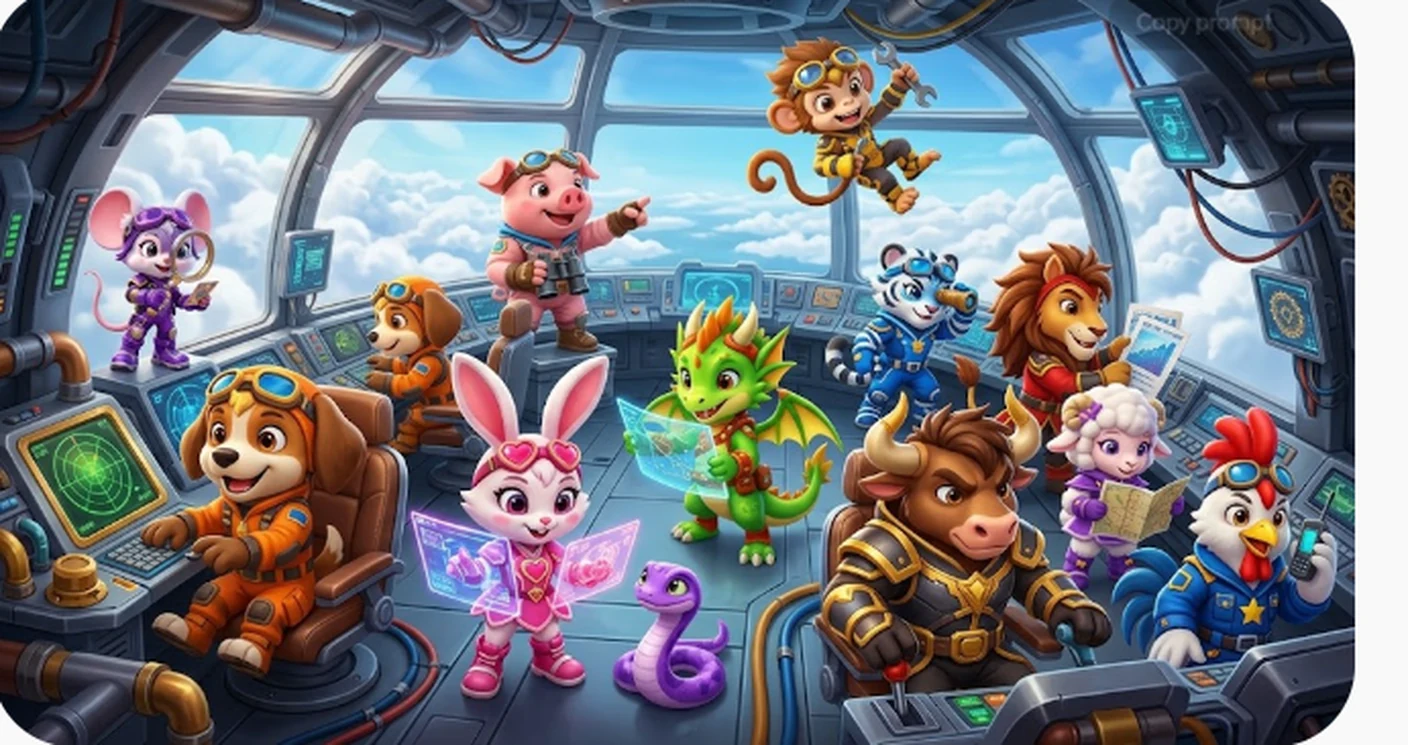
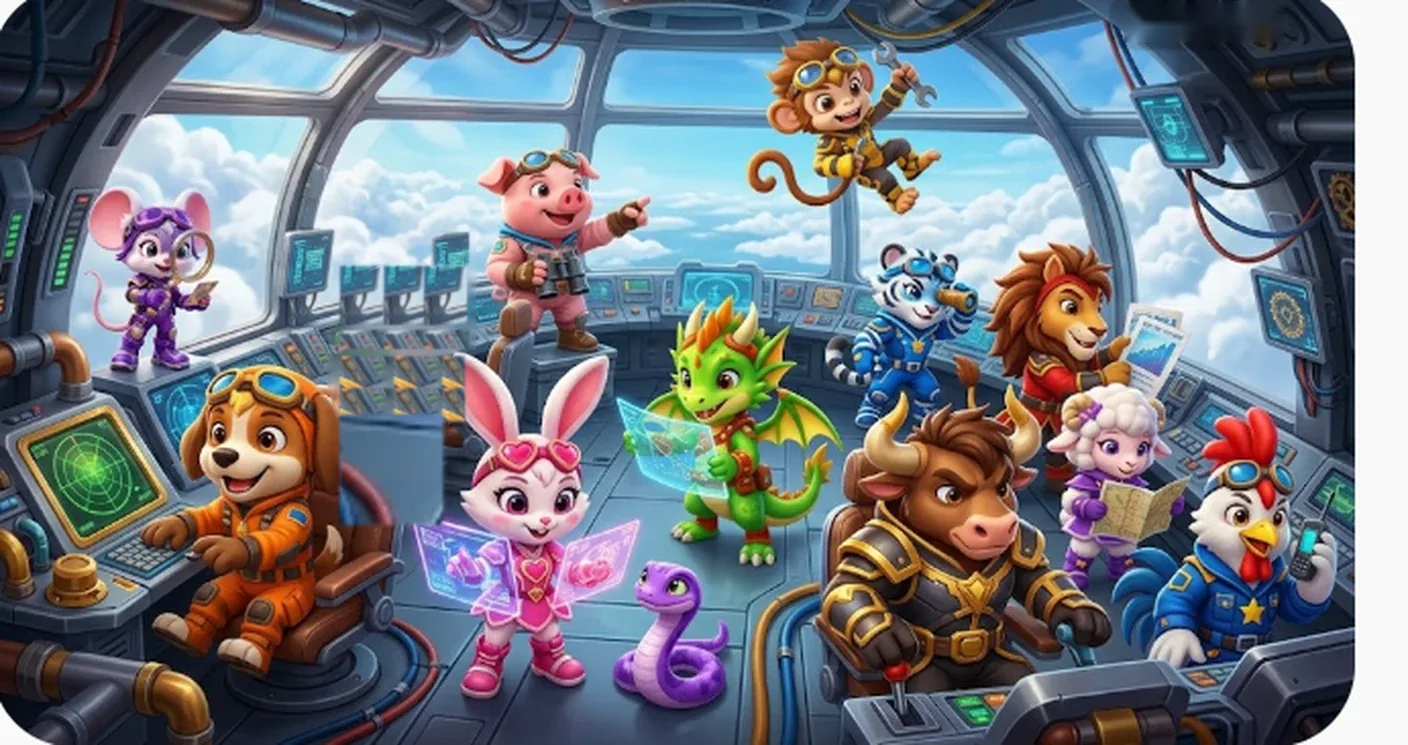
조종실 그림 손질: 중복 강아지 제거 + 워터마크 제거
- 그림 속 강아지 2마리 중 뒤쪽(콘솔 앞 작은 강아지)을 지우고
  창문·모니터 줄·콘솔 벽·바닥을 복원 (12영웅 정확히 12마리)
- 우상단 'Copy prompt' 워터마크 제거, 콘솔 깜빡임 오버레이 위치 이동

Claude-Session: https://claude.ai/code/session_01NHgn8GWZ2oMqCz3bTFubG3

Changed region(s): [[0.2188, 0.3087, 0.3438, 0.7101], [0.7812, 0.0, 0.9062, 0.0617]]

diff --git a/sw.js b/sw.js
@@ -1,7 +1,7 @@
 /* 열두동물 한글 수비대 — offline worker.
    Every build writes a new VERSION here; a changed sw.js is how an installed app notices there is an update.
    The new version waits until the player taps "업데이트" (or until the app is fully closed), so a game in progress is never swapped out. */
-const VERSION = "c19553f5011c";
+const VERSION = "e7e0b6ec31dc";
 const CACHE = "hg-" + VERSION;
 const CORE = ["./", "index.html", "css/style.css", "js/app.js", "audio/voices.js", "books/b1/book.js", "books/b2/book.js", "books/b3/book.js", "books/b4/book.js", "books/b5/book.js", "books/b6/book.js", "books/b7/book.js", "books/b8/book.js", "books/b9/book.js", "books/b10/book.js", "books/b11/book.js", "books/b12/book.js", "manifest.webmanifest", "assets/fonts/jua-korean-400-normal.woff2", "assets/fonts/gowun-dodum-korean-400-normal.woff2"];   /* must all be saved, or this version is not installed */
 const REST = ["assets/audio/bgm/book.mp3", "assets/audio/bgm/case.mp3", "assets/audio/bgm/course.mp3", "assets/audio/bgm/duel.mp3", "assets/audio/bgm/explore.mp3", "assets/audio/bgm/play.mp3", "assets/audio/bgm/reveal.mp3", "assets/audio/bgm/solved.mp3", "assets/audio/bgm/tension.mp3", "assets/audio/bgm/title.mp3", "assets/fonts/fredoka-latin-400-normal.woff2", "assets/fonts/fredoka-latin-500-normal.woff2", "assets/fonts/fredoka-latin-600-normal.woff2", "assets/fonts/fredoka-latin-700-normal.woff2", "assets/img/card/dog_atk.webp", "assets/img/card/dog_def.webp", "assets/img/card/dragon_atk.webp", "assets/img/card/dragon_def.webp", "assets/img/card/horse_atk.webp", "assets/img/card/horse_def.webp", "assets/img/card/mentor_atk.webp", "assets/img/card/mentor_def.webp", "assets/img/card/monkey_atk.webp", "assets/img/card/monkey_def.webp", "assets/img/card/ox_atk.webp", "assets/img/card/ox_def.webp", "assets/img/card/pig_atk.webp", "assets/img/card/pig_def.webp", "assets/img/card/rabbit_atk.webp", "assets/img/card/rabbit_def.webp", "assets/img/card/rat_atk.webp", "assets/img/card/rat_def.webp", "assets/img/card/sheep_atk.webp", "assets/img/card/sheep_def.webp", "assets/img/card/snake_atk.webp", "assets/img/card/snake_def.webp", "assets/img/card/tiger_atk.webp", "assets/img/card/tiger_def.webp", "assets/img/card/v_black_atk.webp", "assets/img/card/v_black_def.webp", "assets/img/card/v_fat_atk.webp", "assets/img/card/v_fat_def.webp", "assets/img/card/v_gray_atk.webp", "assets/img/card/v_gray_def.webp", "assets/img/card/v_purple_atk.webp", "assets/img/card/v_purple_def.webp", "assets/img/card/v_tiger_atk.webp", "assets/img/card/v_tiger_def.webp", "assets/img/card/v_white_atk.webp", "assets/img/card/v_white_def.webp", "assets/img/case/case01_rat.webp", "assets/img/case/case02_ox.webp", "assets/img/case/case04_rabbit.webp", "assets/img/case/case05_dragon.webp", "assets/img/case/case06_snake.webp", "assets/img/case/case07_horse.webp", "assets/img/case/case08_sheep.webp", "assets/img/case/case09_monkey.webp", "assets/img/case/case10_rooster.webp", "assets/img/case/case11_dog.webp", "assets/img/course/book_gate.webp", "assets/img/course/book_orb.webp", "assets/img/emoji/e0.webp", "assets/img/emoji/e1.webp", "assets/img/emoji/e2.webp", "assets/img/emoji/e3.webp", "assets/img/emoji/e4.webp", "assets/img/emoji/e5.webp", "assets/img/emoji/e6.webp", "assets/img/emoji/e7.webp", "assets/img/emoji/e8.webp", "assets/img/hero/dog.webp", "assets/img/hero/dragon.webp", "assets/img/hero/horse.webp", "assets/img/hero/mentor.webp", "assets/img/hero/monkey.webp", "assets/img/hero/ox.webp", "assets/img/hero/pig.webp", "assets/img/hero/rabbit.webp", "assets/img/hero/rabbit_run_sheet.webp", "assets/img/hero/rat.webp", "assets/img/hero/rooster.webp", "assets/img/hero/sheep.webp", "assets/img/hero/snake.webp", "assets/img/hero/tiger.webp", "assets/img/hq/launch_grid.webp", "assets/img/hq/room_base.webp", "assets/img/hq/room_pic.webp", "assets/img/hq/work_rat.webp", "assets/img/npc/beaver.webp", "assets/img/npc/beaver_face.webp", "assets/img/npc/beaver_happy.webp", "assets/img/npc/beaver_worried.webp", "assets/img/npc/gull.webp", "assets/img/npc/gull_face.webp", "assets/img/npc/gull_happy.webp", "assets/img/npc/gull_worried.webp", "assets/img/npc/mole.webp", "assets/img/npc/mole_face.webp", "assets/img/npc/mole_happy.webp", "assets/img/npc/mole_worried.webp", "assets/img/npc/raccoon.webp", "assets/img/npc/raccoon_face.webp", "assets/img/npc/spider.webp", "assets/img/npc/spider_face.webp", "assets/img/npc/spider_happy.webp", "assets/img/npc/spider_worried.webp", "assets/img/npc/squirrel.webp", "assets/img/npc/squirrel_face.webp", "assets/img/npc/squirrel_happy.webp", "assets/img/npc/squirrel_worried.webp", "assets/img/npc/v_black.webp", "assets/img/npc/v_black_face.webp", "assets/img/portrait/dog.webp", "assets/img/portrait/dragon.webp", "assets/img/portrait/horse.webp", "assets/img/portrait/mentor.webp", "assets/img/portrait/monkey.webp", "assets/img/portrait/ox.webp", "assets/img/portrait/pig.webp", "assets/img/portrait/rabbit.webp", "assets/img/portrait/rat.webp", "assets/img/portrait/rooster.webp", "assets/img/portrait/sheep.webp", "assets/img/portrait/snake.webp", "assets/img/portrait/tiger.webp", "assets/img/portrait/v_black.webp", "assets/img/portrait/v_fat.webp", "assets/img/portrait/v_gray.webp", "assets/img/portrait/v_purple.webp", "assets/img/portrait/v_tiger.webp", "assets/img/portrait/v_white.webp", "assets/img/scene/case03_race.webp", "assets/img/scene/course_forest.webp", "assets/img/scene/island.webp", "assets/img/scene/island_map.webp", "assets/img/scene/start_poster.webp", "assets/img/scene/storyboard_p1.webp", "assets/img/scene/storyboard_p2.webp", "assets/img/villain/black_head.webp", "assets/img/villain/fat.webp", "assets/img/villain/gray.webp", "assets/img/villain/purple.webp", "assets/img/villain/tiger.webp", "assets/img/villain/white.webp", "audio/app_001.mp3", "audio/app_002.mp3", "audio/app_003.mp3", "audio/app_004.mp3", "audio/b1_001.mp3", "audio/b1_002.mp3", "audio/b1_003.mp3", "audio/b1_004.mp3", "audio/b1_005.mp3", "audio/b1_005a.mp3", "audio/b1_005b.mp3", "audio/b1_005c.mp3", "audio/b1_006.mp3", "audio/b1_007.mp3", "audio/b1_008.mp3", "audio/b1_009.mp3", "audio/b1_010.mp3", "audio/b1_011.mp3", "audio/b1_012.mp3", "audio/b1_013.mp3", "audio/b1_014.mp3", "audio/b1_015.mp3", "audio/b1_016.mp3", "audio/b1_017.mp3", "audio/b1_018.mp3", "audio/b1_019.mp3", "audio/b1_020.mp3", "audio/b1_021.mp3", "audio/b1_022.mp3", "audio/b1_023.mp3", "audio/b1_024.mp3", "audio/b1_025.mp3", "audio/b1_026.mp3", "audio/b1_027.mp3", "audio/b1_028.mp3", "audio/b1_029.mp3", "audio/b1_030.mp3", "audio/b1_031.mp3", "audio/b1_032.mp3", "audio/b1_033.mp3", "audio/b1_034.mp3", "audio/b1_035.mp3", "audio/b1_036.mp3", "audio/b1_037.mp3", "audio/b1_038.mp3", "audio/b1_039.mp3", "audio/b1_040.mp3", "audio/b1_041.mp3", "audio/b1_042.mp3", "audio/b1_043.mp3", "audio/b1_044.mp3", "audio/b1_045.mp3", "audio/b1_046.mp3", "audio/b1_047.mp3", "audio/b1_048.mp3", "audio/b1_049.mp3", "audio/b1_050.mp3", "audio/b1_051.mp3", "audio/b1_052.mp3", "audio/b1_053.mp3", "audio/b1_054.mp3", "audio/b1_055.mp3", "audio/b1_056.mp3", "audio/b1_057.mp3", "audio/b1_058.mp3", "audio/b1_059.mp3", "audio/b1_060.mp3", "audio/b1_061.mp3", "audio/b1_062.mp3", "audio/b1_063.mp3", "audio/b1_064.mp3", "audio/b1_065.mp3", "audio/b1_066.mp3", "audio/b1_067.mp3", "audio/b1_068.mp3", "audio/b1_069.mp3", "audio/b1_070.mp3", "audio/b1_071.mp3", "audio/b1_072.mp3", "audio/b1_073.mp3", "audio/b1_074.mp3", "audio/b2_001.mp3", "audio/b2_002.mp3", "audio/b2_003.mp3", "audio/b2_005.mp3", "audio/b2_006.mp3", "audio/b2_007.mp3", "audio/b2_008.mp3", "audio/b2_009.mp3", "audio/b2_010.mp3", "audio/b2_011.mp3", "audio/b2_012.mp3", "audio/b2_013.mp3", "audio/b2_014.mp3", "audio/b2_015.mp3", "audio/b2_016.mp3", "audio/b2_017.mp3", "audio/b2_018.mp3", "audio/b2_019.mp3", "audio/b2_020.mp3", "audio/b2_021.mp3", "audio/b2_022.mp3", "audio/b2_023.mp3", "audio/b2_024.mp3", "audio/b2_025.mp3", "audio/b2_026.mp3", "audio/b2_027.mp3", "audio/b2_028.mp3", "audio/b2_029.mp3", "audio/b2_030.mp3", "audio/b2_031.mp3", "audio/b2_032.mp3", "audio/b2_033.mp3", "audio/b2_034.mp3", "audio/b2_035.mp3", "audio/b2_036.mp3", "audio/b2_037.mp3", "audio/b2_038.mp3", "audio/b2_039.mp3", "audio/b2_040.mp3", "audio/b2_041.mp3", "audio/b2_042.mp3", "audio/b2_043.mp3", "audio/b2_044.mp3", "audio/b2_045.mp3", "audio/b2_046.mp3", "audio/b2_047.mp3", "audio/b2_048.mp3", "audio/b2_049.mp3", "audio/b2_050.mp3", "audio/b2_051.mp3", "audio/b2_052.mp3", "audio/b2_053.mp3", "audio/fs_001.mp3", "audio/fs_002.mp3", "audio/fs_003.mp3", "audio/fs_004.mp3", "audio/fs_005.mp3", "audio/fs_006.mp3", "audio/fs_007.mp3", "audio/fs_008.mp3", "audio/fs_009.mp3", "audio/fs_010.mp3", "audio/fs_011.mp3", "audio/fs_012.mp3", "audio/fs_013.mp3", "audio/fs_014.mp3", "audio/fs_015.mp3", "audio/fs_016.mp3", "audio/fs_017.mp3", "audio/fs_018.mp3", "audio/fs_019.mp3", "audio/fs_020.mp3", "audio/fs_021.mp3", "audio/fs_022.mp3", "audio/fs_023.mp3", "audio/fs_024.mp3", "audio/fs_025.mp3", "audio/fs_026.mp3", "audio/fs_027.mp3", "audio/fs_028.mp3", "audio/fs_029.mp3", "audio/fs_030.mp3", "audio/fs_031.mp3", "audio/fs_032.mp3", "audio/fs_033.mp3", "audio/fs_034.mp3", "audio/fs_035.mp3", "audio/fs_036.mp3", "audio/fs_037.mp3", "audio/fs_038.mp3", "audio/hero_dog_1.mp3", "audio/hero_dog_2.mp3", "audio/hero_dog_3.mp3", "audio/hero_dragon_1.mp3", "audio/hero_dragon_2.mp3", "audio/hero_dragon_3.mp3", "audio/hero_horse_1.mp3", "audio/hero_horse_2.mp3", "audio/hero_horse_3.mp3", "audio/hero_monkey_1.mp3", "audio/hero_monkey_2.mp3", "audio/hero_monkey_3.mp3", "audio/hero_ox_1.mp3", "audio/hero_ox_2.mp3", "audio/hero_ox_3.mp3", "audio/hero_pig_1.mp3", "audio/hero_pig_2.mp3", "audio/hero_pig_3.mp3", "audio/hero_rabbit_1.mp3", "audio/hero_rabbit_2.mp3", "audio/hero_rabbit_3.mp3", "audio/hero_rat_1.mp3", "audio/hero_rat_2.mp3", "audio/hero_rat_3.mp3", "audio/hero_rooster_1.mp3", "audio/hero_rooster_2.mp3", "audio/hero_rooster_3.mp3", "audio/hero_sheep_1.mp3", "audio/hero_sheep_2.mp3", "audio/hero_sheep_3.mp3", "audio/hero_snake_1.mp3", "audio/hero_snake_2.mp3", "audio/hero_snake_3.mp3", "audio/hero_tiger_1.mp3", "audio/hero_tiger_2.mp3", "audio/hero_tiger_3.mp3", "audio/hq_001.mp3", "audio/hq_002.mp3", "audio/hq_003.mp3", "audio/hq_004.mp3", "audio/hq_005.mp3", "audio/hq_006.mp3", "audio/hq_007.mp3", "audio/k01_001.mp3", "audio/k01_002.mp3", "audio/k01_003.mp3", "audio/k01_004.mp3", "audio/k01_005.mp3", "audio/k01_006.mp3", "audio/k01_007.mp3", "audio/k01_008.mp3", "audio/k01_009.mp3", "audio/k01_010.mp3", "audio/k01_011.mp3", "audio/k01_012.mp3", "audio/k01_013.mp3", "audio/k01_014.mp3", "audio/k01_015.mp3", "audio/k01_016.mp3", "audio/k01_017.mp3", "audio/k01_018.mp3", "audio/k01_019.mp3", "audio/k01_020.mp3", "audio/k01_021.mp3", "audio/k01_022.mp3", "audio/k01_023.mp3", "audio/k01_024.mp3", "audio/k01_025.mp3", "audio/k01_026.mp3", "audio/k01_027.mp3", "audio/k01_028.mp3", "audio/k01_029.mp3", "audio/k01_030.mp3", "audio/k01_031.mp3", "audio/k01_032.mp3", "audio/k01_033.mp3", "audio/k01_034.mp3", "audio/k01_035.mp3", "audio/k01_036.mp3", "audio/k02_001.mp3", "audio/k02_002.mp3", "audio/k02_003.mp3", "audio/k02_004.mp3", "audio/k02_005.mp3", "audio/k02_006.mp3", "audio/k02_007.mp3", "audio/k02_008.mp3", "audio/k02_009.mp3", "audio/k02_010.mp3", "audio/k02_011.mp3", "audio/k02_012.mp3", "audio/k02_013.mp3", "audio/k02_014.mp3", "audio/k02_015.mp3", "audio/k02_016.mp3", "audio/k02_017.mp3", "audio/k02_018.mp3", "audio/k02_019.mp3", "audio/k02_020.mp3", "audio/k02_021.mp3", "audio/k02_022.mp3", "audio/k02_023.mp3", "audio/k02_024.mp3", "audio/k02_025.mp3", "audio/k02_026.mp3", "audio/k02_027.mp3", "audio/k02_028.mp3", "audio/k02_029.mp3", "audio/k02_030.mp3", "audio/k02_031.mp3", "audio/k03_001.mp3", "audio/k03_002.mp3", "audio/k03_003.mp3", "audio/k03_004.mp3", "audio/k03_005.mp3", "audio/k03_006.mp3", "audio/k03_007.mp3", "audio/k03_008.mp3", "audio/k03_009.mp3", "audio/k03_010.mp3", "audio/k03_011.mp3", "audio/k03_012.mp3", "audio/k03_013.mp3", "audio/k03_014.mp3", "audio/k03_015.mp3", "audio/k03_016.mp3", "audio/k03_017.mp3", "audio/k03_018.mp3", "audio/k03_019.mp3", "audio/k03_020.mp3", "audio/k03_021.mp3", "audio/k03_022.mp3", "audio/k03_023.mp3", "audio/k03_024.mp3", "audio/k03_025.mp3", "audio/k03_026.mp3", "audio/k03_027.mp3", "audio/k03_028.mp3", "audio/k03_029.mp3", "audio/k03_030.mp3", "audio/k03_031.mp3", "audio/k04_001.mp3", "audio/k04_002.mp3", "audio/k04_003.mp3", "audio/k04_004.mp3", "audio/k04_005.mp3", "audio/k04_006.mp3", "audio/k04_007.mp3", "audio/k04_008.mp3", "audio/k04_009.mp3", "audio/k04_010.mp3", "audio/k04_011.mp3", "audio/k04_012.mp3", "audio/k04_013.mp3", "audio/k04_014.mp3", "audio/k04_015.mp3", "audio/k04_016.mp3", "audio/k04_017.mp3", "audio/k04_018.mp3", "audio/k04_019.mp3", "audio/k04_020.mp3", "audio/k04_021.mp3", "audio/k04_022.mp3", "audio/k04_023.mp3", "audio/k04_024.mp3", "audio/k04_025.mp3", "audio/k04_026.mp3", "audio/k04_027.mp3", "audio/k04_028.mp3", "audio/k04_029.mp3", "audio/k04_030.mp3", "audio/k04_031.mp3", "audio/k04_032.mp3", "audio/k04_033.mp3", "audio/k05_001.mp3", "audio/k05_002.mp3", "audio/k05_003.mp3", "audio/k05_004.mp3", "audio/k05_005.mp3", "audio/k05_006.mp3", "audio/k05_007.mp3", "audio/k05_008.mp3", "audio/k05_009.mp3", "audio/k05_010.mp3", "audio/k05_011.mp3", "audio/k05_012.mp3", "audio/k05_013.mp3", "audio/k05_014.mp3", "audio/k05_015.mp3", "audio/k05_016.mp3", "audio/k05_017.mp3", "audio/k05_018.mp3", "audio/k05_019.mp3", "audio/k05_020.mp3", "audio/k05_021.mp3", "audio/k05_022.mp3", "audio/k05_023.mp3", "audio/k05_024.mp3", "audio/k05_025.mp3", "audio/k05_026.mp3", "audio/k05_027.mp3", "audio/k05_028.mp3", "audio/k05_029.mp3", "audio/k05_030.mp3", "audio/k05_031.mp3", "audio/k05_032.mp3", "audio/k06_001.mp3", "audio/k06_002.mp3", "audio/k06_003.mp3", "audio/k06_004.mp3", "audio/k06_005.mp3", "audio/k06_006.mp3", "audio/k06_007.mp3", "audio/k06_008.mp3", "audio/k06_009.mp3", "audio/k06_010.mp3", "audio/k06_011.mp3", "audio/k06_012.mp3", "audio/k06_013.mp3", "audio/k06_014.mp3", "audio/k06_015.mp3", "audio/k06_016.mp3", "audio/k06_017.mp3", "audio/k06_018.mp3", "audio/k06_019.mp3", "audio/k06_020.mp3", "audio/k06_021.mp3", "audio/k06_022.mp3", "audio/k06_023.mp3", "audio/k06_024.mp3", "audio/k06_025.mp3", "audio/k06_026.mp3", "audio/k06_027.mp3", "audio/k06_028.mp3", "audio/k06_029.mp3", "audio/k06_030.mp3", "audio/k06_031.mp3", "audio/k06_032.mp3", "audio/k06_033.mp3", "audio/k06_034.mp3", "audio/k06_035.mp3", "audio/k07_001.mp3", "audio/k07_002.mp3", "audio/k07_003.mp3", "audio/k07_004.mp3", "audio/k07_005.mp3", "audio/k07_006.mp3", "audio/k07_007.mp3", "audio/k07_008.mp3", "audio/k07_009.mp3", "audio/k07_010.mp3", "audio/k07_011.mp3", "audio/k07_012.mp3", "audio/k07_013.mp3", "audio/k07_014.mp3", "audio/k07_015.mp3", "audio/k07_016.mp3", "audio/k07_017.mp3", "audio/k07_018.mp3", "audio/k07_019.mp3", "audio/k07_020.mp3", "audio/k07_021.mp3", "audio/k07_022.mp3", "audio/k07_023.mp3", "audio/k07_024.mp3", "audio/k07_025.mp3", "audio/k07_026.mp3", "audio/k07_027.mp3", "audio/k07_028.mp3", "audio/k07_029.mp3", "audio/k07_030.mp3", "audio/k07_031.mp3", "audio/k07_032.mp3", "audio/k08_001.mp3", "audio/k08_002.mp3", "audio/k08_003.mp3", "audio/k08_004.mp3", "audio/k08_005.mp3", "audio/k08_006.mp3", "audio/k08_007.mp3", "audio/k08_008.mp3", "audio/k08_009.mp3", "audio/k08_010.mp3", "audio/k08_011.mp3", "audio/k08_012.mp3", "audio/k08_013.mp3", "audio/k08_014.mp3", "audio/k08_015.mp3", "audio/k08_016.mp3", "audio/k08_017.mp3", "audio/k08_018.mp3", "audio/k08_019.mp3", "audio/k08_020.mp3", "audio/k08_021.mp3", "audio/k08_022.mp3", "audio/k08_023.mp3", "audio/k08_024.mp3", "audio/k08_025.mp3", "audio/k08_026.mp3", "audio/k08_027.mp3", "audio/k08_028.mp3", "audio/k08_029.mp3", "audio/k08_030.mp3", "audio/k08_031.mp3", "audio/k08_032.mp3", "audio/k09_001.mp3", "audio/k09_002.mp3", "audio/k09_003.mp3", "audio/k09_004.mp3", "audio/k09_005.mp3", "audio/k09_006.mp3", "audio/k09_007.mp3", "audio/k09_008.mp3", "audio/k09_009.mp3", "audio/k09_010.mp3", "audio/k09_011.mp3", "audio/k09_012.mp3", "audio/k09_013.mp3", "audio/k09_014.mp3", "audio/k09_015.mp3", "audio/k09_016.mp3", "audio/k09_017.mp3", "audio/k09_018.mp3", "audio/k09_019.mp3", "audio/k09_020.mp3", "audio/k09_021.mp3", "audio/k09_022.mp3", "audio/k09_023.mp3", "audio/k09_024.mp3", "audio/k09_025.mp3", "audio/k09_026.mp3", "audio/k09_027.mp3", "audio/k09_028.mp3", "audio/k09_029.mp3", "audio/k09_030.mp3", "audio/k10_001.mp3", "audio/k10_002.mp3", "audio/k10_003.mp3", "audio/k10_004.mp3", "audio/k10_005.mp3", "audio/k10_006.mp3", "audio/k10_007.mp3", "audio/k10_008.mp3", "audio/k10_009.mp3", "audio/k10_010.mp3", "audio/k10_011.mp3", "audio/k10_012.mp3", "audio/k10_013.mp3", "audio/k10_014.mp3", "audio/k10_015.mp3", "audio/k10_016.mp3", "audio/k10_017.mp3", "audio/k10_018.mp3", "audio/k10_019.mp3", "audio/k10_020.mp3", "audio/k10_021.mp3", "audio/k10_022.mp3", "audio/k10_023.mp3", "audio/k10_024.mp3", "audio/k10_025.mp3", "audio/k10_026.mp3", "audio/k10_027.mp3", "audio/k10_028.mp3", "audio/k10_029.mp3", "audio/k11_001.mp3", "audio/k11_002.mp3", "audio/k11_003.mp3", "audio/k11_004.mp3", "audio/k11_005.mp3", "audio/k11_006.mp3", "audio/k11_007.mp3", "audio/k11_008.mp3", "audio/k11_009.mp3", "audio/k11_010.mp3", "audio/k11_011.mp3", "audio/k11_012.mp3", "audio/k11_013.mp3", "audio/k11_014.mp3", "audio/k11_015.mp3", "audio/k11_016.mp3", "audio/k11_017.mp3", "audio/k11_018.mp3", "audio/k11_019.mp3", "audio/k11_020.mp3", "audio/k11_021.mp3", "audio/k11_022.mp3", "audio/k11_023.mp3", "audio/k11_024.mp3", "audio/k11_025.mp3", "audio/k11_026.mp3", "audio/k11_027.mp3", "audio/k11_028.mp3", "audio/k11_029.mp3", "audio/k12_001.mp3", "audio/k12_002.mp3", "audio/k12_003.mp3", "audio/k12_004.mp3", "audio/k12_005.mp3", "audio/k12_006.mp3", "audio/k12_007.mp3", "audio/k12_008.mp3", "audio/k12_009.mp3", "audio/k12_010.mp3", "audio/k12_011.mp3", "audio/k12_012.mp3", "audio/k12_013.mp3", "audio/k12_014.mp3", "audio/k12_015.mp3", "audio/k12_016.mp3", "audio/k12_017.mp3", "audio/k12_018.mp3", "audio/k12_019.mp3", "audio/k12_020.mp3", "audio/k12_021.mp3", "audio/k12_022.mp3", "audio/k12_023.mp3", "audio/k12_024.mp3", "audio/k12_025.mp3", "audio/k12_026.mp3", "audio/k12_027.mp3", "audio/k12_028.mp3", "audio/k12_029.mp3", "audio/k12_030.mp3", "audio/learn_001.mp3", "audio/learn_002.mp3", "audio/learn_003.mp3", "audio/learn_004.mp3", "audio/learn_005.mp3", "audio/learn_006.mp3", "audio/learn_007.mp3", "audio/learn_008.mp3", "audio/learn_009.mp3", "audio/learn_010.mp3", "audio/learn_011.mp3", "audio/learn_012.mp3", "audio/learn_013.mp3", "audio/learn_014.mp3", "audio/learn_015.mp3", "audio/learn_016.mp3", "audio/learn_017.mp3", "audio/learn_018.mp3", "audio/learn_019.mp3", "audio/learn_020.mp3", "audio/learn_021.mp3", "audio/learn_022.mp3", "audio/learn_023.mp3", "audio/learn_024.mp3", "audio/learn_025.mp3", "audio/learn_026.mp3", "audio/learn_027.mp3", "audio/learn_028.mp3", "audio/learn_029.mp3", "audio/learn_030.mp3", "audio/learn_031.mp3", "audio/learn_032.mp3", "audio/learn_033.mp3", "audio/learn_034.mp3", "audio/learn_035.mp3", "audio/learn_036.mp3", "audio/learn_037.mp3", "audio/learn_038.mp3", "audio/learn_039.mp3", "audio/learn_040.mp3", "audio/learn_041.mp3", "audio/learn_042.mp3", "audio/learn_043.mp3", "audio/learn_044.mp3", "audio/learn_045.mp3", "audio/learn_046.mp3", "audio/learn_047.mp3", "audio/learn_048.mp3", "audio/learn_049.mp3", "audio/rm_b1_1.mp3", "audio/rm_b1_2.mp3", "audio/rm_b1_3.mp3", "audio/rm_b1_4.mp3", "audio/rm_b1_5.mp3", "audio/rm_b1_6.mp3", "audio/rm_b1_7.mp3", "audio/rm_b1_8.mp3", "audio/rm_b2_1.mp3", "audio/rm_b2_2.mp3", "audio/rm_b2_3.mp3", "audio/rm_b2_4.mp3", "audio/rm_b2_5.mp3", "audio/rm_b2_6.mp3", "audio/rm_b2_7.mp3", "audio/rm_b2_8.mp3", "audio/rm_k10_1.mp3", "audio/rm_k10_2.mp3", "audio/rm_k10_3.mp3", "audio/rm_k10_4.mp3", "audio/rm_k10_5.mp3", "audio/rm_k10_6.mp3", "audio/rm_k10_7.mp3", "audio/rm_k10_8.mp3", "audio/rm_k11_1.mp3", "audio/rm_k11_2.mp3", "audio/rm_k11_3.mp3", "audio/rm_k11_4.mp3", "audio/rm_k11_5.mp3", "audio/rm_k11_6.mp3", "audio/rm_k11_7.mp3", "audio/rm_k12_1.mp3", "audio/rm_k12_2.mp3", "audio/rm_k12_3.mp3", "audio/rm_k12_4.mp3", "audio/rm_k12_5.mp3", "audio/rm_k12_6.mp3", "audio/rm_k12_7.mp3", "audio/rm_k12_8.mp3", "audio/rm_k12_9.mp3", "audio/rm_k1_1.mp3", "audio/rm_k1_2.mp3", "audio/rm_k1_3.mp3", "audio/rm_k1_4.mp3", "audio/rm_k1_5.mp3", "audio/rm_k1_6.mp3", "audio/rm_k1_7.mp3", "audio/rm_k1_8.mp3", "audio/rm_k2_1.mp3", "audio/rm_k2_2.mp3", "audio/rm_k2_3.mp3", "audio/rm_k2_4.mp3", "audio/rm_k2_5.mp3", "audio/rm_k2_6.mp3", "audio/rm_k2_7.mp3", "audio/rm_k2_8.mp3", "audio/rm_k3_1.mp3", "audio/rm_k3_2.mp3", "audio/rm_k3_3.mp3", "audio/rm_k3_4.mp3", "audio/rm_k3_5.mp3", "audio/rm_k3_6.mp3", "audio/rm_k3_7.mp3", "audio/rm_k3_8.mp3", "audio/rm_k3_9.mp3", "audio/rm_k4_1.mp3", "audio/rm_k4_2.mp3", "audio/rm_k4_3.mp3", "audio/rm_k4_4.mp3", "audio/rm_k4_5.mp3", "audio/rm_k4_6.mp3", "audio/rm_k4_7.mp3", "audio/rm_k5_1.mp3", "audio/rm_k5_2.mp3", "audio/rm_k5_3.mp3", "audio/rm_k5_4.mp3", "audio/rm_k5_5.mp3", "audio/rm_k5_6.mp3", "audio/rm_k5_7.mp3", "audio/rm_k5_8.mp3", "audio/rm_k5_9.mp3", "audio/rm_k6_1.mp3", "audio/rm_k6_2.mp3", "audio/rm_k6_3.mp3", "audio/rm_k6_4.mp3", "audio/rm_k6_5.mp3", "audio/rm_k6_6.mp3", "audio/rm_k6_7.mp3", "audio/rm_k6_8.mp3", "audio/rm_k7_1.mp3", "audio/rm_k7_2.mp3", "audio/rm_k7_3.mp3", "audio/rm_k7_4.mp3", "audio/rm_k7_5.mp3", "audio/rm_k7_6.mp3", "audio/rm_k7_7.mp3", "audio/rm_k7_8.mp3", "audio/rm_k8_1.mp3", "audio/rm_k8_2.mp3", "audio/rm_k8_3.mp3", "audio/rm_k8_4.mp3", "audio/rm_k8_5.mp3", "audio/rm_k8_6.mp3", "audio/rm_k8_7.mp3", "audio/rm_k8_8.mp3", "audio/rm_k8_9.mp3", "audio/rm_k9_1.mp3", "audio/rm_k9_2.mp3", "audio/rm_k9_3.mp3", "audio/rm_k9_4.mp3", "audio/rm_k9_5.mp3", "audio/rm_k9_6.mp3", "audio/rm_k9_7.mp3", "audio/rm_k9_8.mp3", "audio/ui_001.mp3", "audio/ui_002.mp3", "audio/ui_003.mp3", "audio/ui_004.mp3", "audio/ui_005.mp3", "audio/ui_006.mp3", "audio/ui_007.mp3", "audio/ui_008.mp3", "audio/ui_009.mp3", "audio/wd_001.mp3", "audio/wd_002.mp3", "audio/wd_003.mp3", "audio/wd_004.mp3", "audio/wd_005.mp3", "audio/wd_006.mp3", "audio/wd_007.mp3", "audio/wd_008.mp3", "audio/wd_009.mp3", "audio/wd_010.mp3", "audio/wd_011.mp3", "audio/wd_012.mp3", "audio/wd_013.mp3", "audio/wd_014.mp3", "audio/wd_015.mp3", "audio/wd_016.mp3", "audio/wd_017.mp3", "audio/wd_018.mp3", "audio/wd_019.mp3", "audio/wd_020.mp3", "audio/wd_021.mp3", "audio/wd_022.mp3", "audio/wd_023.mp3", "audio/wd_024.mp3", "audio/wd_025.mp3", "audio/wd_026.mp3", "audio/wd_027.mp3", "audio/wd_028.mp3", "audio/wd_029.mp3", "audio/wd_030.mp3", "audio/wd_031.mp3", "audio/wd_032.mp3", "audio/wd_033.mp3", "audio/wd_034.mp3", "audio/wd_035.mp3", "audio/wd_036.mp3", "audio/wd_037.mp3", "audio/wd_038.mp3", "audio/wd_039.mp3", "audio/wd_040.mp3", "audio/wd_041.mp3", "audio/wd_042.mp3", "audio/wd_043.mp3", "audio/wd_044.mp3", "audio/wd_045.mp3", "audio/wd_046.mp3", "audio/wd_047.mp3", "audio/wd_048.mp3", "audio/wd_049.mp3", "audio/wd_050.mp3", "audio/wd_051.mp3", "audio/wd_052.mp3", "audio/wd_053.mp3", "audio/wd_054.mp3", "audio/wd_055.mp3", "audio/wd_056.mp3", "audio/wd_057.mp3", "audio/wd_058.mp3", "audio/wd_059.mp3", "books/b1/card1.webp", "books/b1/card2.webp", "books/b1/card3.webp", "books/b1/cover.webp", "books/b1/page1.webp", "books/b1/page2.webp", "books/b1/page3.webp", "books/b1/rabbit_run.webp", "books/b1/rabbit_sleep.webp", "books/b1/rabbit_stand.webp", "books/b1/rabbit_surprise.webp", "books/b1/scene_broken.webp", "books/b1/scene_enter.webp", "books/b1/spread.webp", "books/b1/turtle_stand.webp", "books/b1/turtle_think.webp", "books/b1/turtle_walk.webp", "books/b1/turtle_win.webp", "books/b10/bird_stand.webp", "books/b10/duck_stand.webp", "books/b10/hen_stand.webp", "books/b10/hen_work.webp", "books/b10/page1.webp", "books/b10/page2.webp", "books/b10/page3.webp", "books/b10/spread.webp", "books/b11/page1.webp", "books/b11/page2.webp", "books/b11/page3.webp", "books/b11/pup_happy.webp", "books/b11/pup_look.webp", "books/b11/pup_stand.webp", "books/b11/spread.webp", "books/b12/p1_stand.webp", "books/b12/p2_stand.webp", "books/b12/p3_stand.webp", "books/b12/page1.webp", "books/b12/page2.webp", "books/b12/page3.webp", "books/b12/pig_scared.webp", "books/b12/spread.webp", "books/b12/wolf_blow.webp", "books/b12/wolf_stand.webp", "books/b2/cat_prowl.webp", "books/b2/city_scared.webp", "books/b2/city_stand.webp", "books/b2/country_scared.webp", "books/b2/country_stand.webp", "books/b2/page1.webp", "books/b2/page2.webp", "books/b2/page3.webp", "books/b2/spread.webp", "books/b3/boy_happy.webp", "books/b3/boy_sleep.webp", "books/b3/boy_stand.webp", "books/b3/old_stand.webp", "books/b3/oxboy_stand.webp", "books/b3/oxboy_walk.webp", "books/b3/page1.webp", "books/b3/page2.webp", "books/b3/page3.webp", "books/b3/spread.webp", "books/b4/bro_scared.webp", "books/b4/bro_stand.webp", "books/b4/page1.webp", "books/b4/page2.webp", "books/b4/page3.webp", "books/b4/sis_scared.webp", "books/b4/sis_stand.webp", "books/b4/spread.webp", "books/b4/tig_prowl.webp", "books/b4/tig_stand.webp", "books/b5/cloud_stand.webp", "books/b5/page1.webp", "books/b5/page2.webp", "books/b5/page3.webp", "books/b5/spread.webp", "books/b5/yong_fly.webp", "books/b5/yong_sad.webp", "books/b5/yong_stand.webp", "books/b6/owl_happy.webp", "books/b6/owl_stand.webp", "books/b6/page1.webp", "books/b6/page2.webp", "books/b6/page3.webp", "books/b6/post_slide.webp", "books/b6/post_stand.webp", "books/b6/spread.webp", "books/b7/dal_run.webp", "books/b7/dal_stand.webp", "books/b7/mill_stand.webp", "books/b7/page1.webp", "books/b7/page2.webp", "books/b7/page3.webp", "books/b7/spread.webp", "books/b8/lamb_stand.webp", "books/b8/page1.webp", "books/b8/page2.webp", "books/b8/page3.webp", "books/b8/shep_shout.webp", "books/b8/shep_stand.webp", "books/b8/spread.webp", "books/b8/wolf_run.webp", "books/b8/wolf_stand.webp", "books/b9/mon_hang.webp", "books/b9/mon_stand.webp", "books/b9/page1.webp", "books/b9/page2.webp", "books/b9/page3.webp", "books/b9/pand_happy.webp", "books/b9/pand_stand.webp", "books/b9/spread.webp", "icons/apple-touch-icon.png", "icons/favicon-32.png", "icons/icon-192.png", "icons/icon-512.png", "icons/maskable-512.png"];   /* saved too; one missing file does not stop the install */

diff --git a/js/app.js b/js/app.js
@@ -5159,7 +5159,7 @@ function hqPicStage(pic,forPick){var hots=CHARS.map(function(c,i){var p=HQPIC_SP
   +'<i class="cl2 c1"></i><i class="cl2 c2"></i><i class="cl2 c3"></i><i class="mist m1"></i><i class="mist m2"></i>'
   +'<i class="bird b1"></i><i class="bird b2"></i><i class="sweep"></i>'
   +'<i class="scr radar" style="left:9.5%;top:67%;--w:9.5%"></i>'
-  +'<i class="scr flick" style="left:31%;top:39%;--w:5%"></i>'
+  +'<i class="scr flick" style="left:27.5%;top:52%;--w:5%"></i>'
   +'<i class="scr flick" style="left:56%;top:37%;--w:4.2%;animation-delay:.7s"></i>'
   +'<i class="scr roll" style="left:69%;top:33%;--w:4.2%"></i>'
   +'<i class="scr flick" style="left:93%;top:29%;--w:5%;animation-delay:1.3s"></i>'

diff --git a/docs/HANDOVER.md b/docs/HANDOVER.md
@@ -24,6 +24,7 @@
 - **출동 그림 한 장(`assets/img/hq/launch_grid.webp`, 2576×1438)**: 보호자가 만든 4×3 격자 — 십이지 순서(쥐 소 호랑이 토끼 / 용 뱀 말 양 / 원숭이 닭 개 돼지). 파일 하나를 CSS 스프라이트로 잘라 쓰므로(배경 `400% 300%` + 칸 위치 %) 아티팩트 파일 수를 1개만 차지. patch34가 `launch_*.webp`를 `HQART.launch`로 자동 연결.
 - **영웅 고르기 카드**: 친구를 누르면 배틀 카드 대신 **그 영웅의 출동 칸**이 카드에 뜨고(천천히 확대되는 Ken Burns), 이름+특성+목소리.
 - **"이 영웅으로 출동!" = 전체 화면 출동 연출**(`lnShot`/`.lnfull`, v30d.js + v30.css): 번쩍(플래시) → 출동 칸이 액자처럼 커지며 기울었다 서고 → 스피드 라인이 휩쓸고 → 아래에 "〈이름〉 출동!" 자막 + 그 영웅의 녹음 대사 1줄. 약 2초 뒤 스르르 사라지고 영웅 교체 토스트. 그림이 없으면 기존 로켓 연출로 자동 복귀. `prefers-reduced-motion`이면 정지 화면.
+- **그림 손질(11/2)**: 조종실 그림에 강아지가 두 마리 그려져 있어(레이더 앞 + 그 뒤 콘솔) 뒤의 중복 강아지를 지우고 배경(창·모니터 줄·콘솔 벽·바닥)을 복원, 우상단 'Copy prompt' 워터마크도 제거. 수정 마스터는 세션의 room_fix7.png, 게임에는 room_pic.webp로 반영. 보호자가 원본 해상도 그림을 주면 같은 손질을 다시 해야 함.
 - 조종실 핫스팟 크기를 그림 높이 기준(`height:34%`)으로 바꿔, 아이패드 가로에서 `max-height`로 그림이 눌릴 때 핫스팟끼리 겹치던 문제 해결(+말·호랑이·양·개 좌표 미세 조정). 조종실 하단 '방 구경' 버튼이 그림 모드에서 안 눌리던 버그 수정.
 - 남은 교체 희망: 조종실 원본 해상도 그림, `hq_sky`+`hq_cabin` 2겹(진짜 창밖 구름 흐름), 영웅 '앉아 일하는' 포즈 12장.
 
